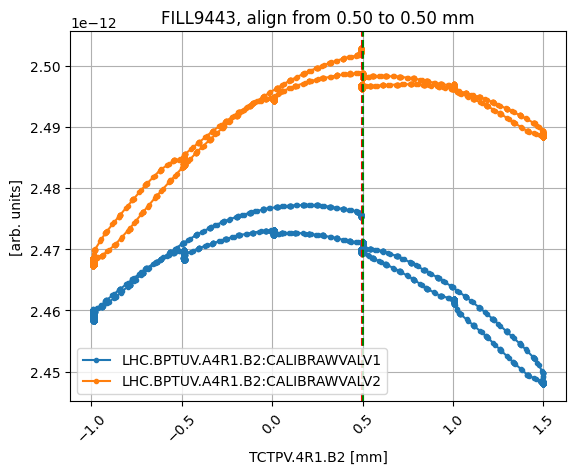
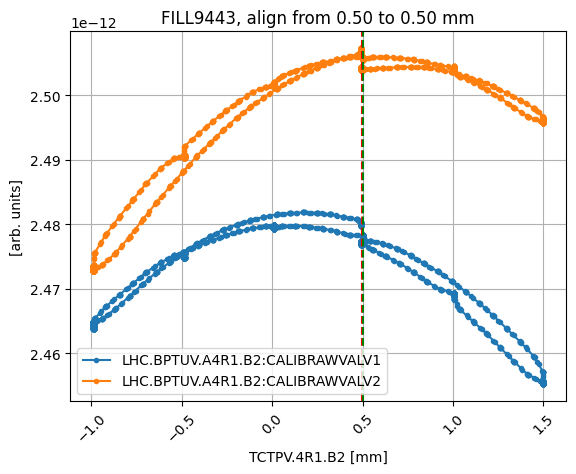
Status

diff --git a/find_alignment.py b/find_alignment.py
@@ -64,22 +64,31 @@ df = sk.get(t0, t1, [
                     'LHC.BPTUH.A4R5.B2:CALIBRAWVALV2',
                     'LHC.BCTDC.A6R4.B1:BEAM_INTENSITY',
                     'LHC.BCTDC.A6R4.B2:BEAM_INTENSITY',
+                    'LHC.BCTDC.B6R4.B1:BEAM_INTENSITY',
+                    'LHC.BCTDC.B6R4.B2:BEAM_INTENSITY',
                      ])
 # iterpolate all the missing values in the dataframe
 # %%
 df = df.interpolate(method='time')
-df['DCT_B1_FIT'] = df['LHC.BCTDC.A6R4.B1:BEAM_INTENSITY'].rolling(window=5000).mean()
-df['DCT_B2_FIT'] = df['LHC.BCTDC.A6R4.B2:BEAM_INTENSITY'].rolling(window=5000).mean()
+df['DCT_B1_FIT'] = (df['LHC.BCTDC.A6R4.B1:BEAM_INTENSITY'].rolling(window=5000).mean()+
+                    df['LHC.BCTDC.B6R4.B1:BEAM_INTENSITY'].rolling(window=5000).mean())/2
+
+df['DCT_B2_FIT'] = (df['LHC.BCTDC.A6R4.B2:BEAM_INTENSITY'].rolling(window=5000).mean()+
+                    df['LHC.BCTDC.B6R4.B2:BEAM_INTENSITY'].rolling(window=5000).mean())/2
 
 # %%
 # check interpolation of DCT_B1_FIT
 plt.figure()
 plt.plot(df['LHC.BCTDC.A6R4.B1:BEAM_INTENSITY'], label='LHC.BCTDC.A6R4.B1:BEAM_INTENSITY')
+plt.plot(df['LHC.BCTDC.B6R4.B1:BEAM_INTENSITY'], label='LHC.BCTDC.B6R4.B1:BEAM_INTENSITY')
+
 plt.plot(df['DCT_B1_FIT'], label='DCT_B1_FIT')
 
 
 plt.figure()
 plt.plot(df['LHC.BCTDC.A6R4.B2:BEAM_INTENSITY'], label='LHC.BCTDC.A6R4.B1:BEAM_INTENSITY')
+plt.plot(df['LHC.BCTDC.B6R4.B2:BEAM_INTENSITY'], label='LHC.BCTDC.B6R4.B2:BEAM_INTENSITY')
+
 plt.plot(df['DCT_B2_FIT'], label='DCT_B2_FIT')
 
 # %%
@@ -186,7 +195,7 @@ plt.title(f'FILL9443, align from {initial_offset:3.2f} to {offset:3.2f} mm')
 plt.savefig(f'plots/result_TCTP{my_plane}.4{my_string}.png', bbox_inches='tight')
 
 # %%
-t0_filtered="19:08"
+t0_filtered="19:03"
 t1_filtered="19:18"
 
 wire = 'L5'
